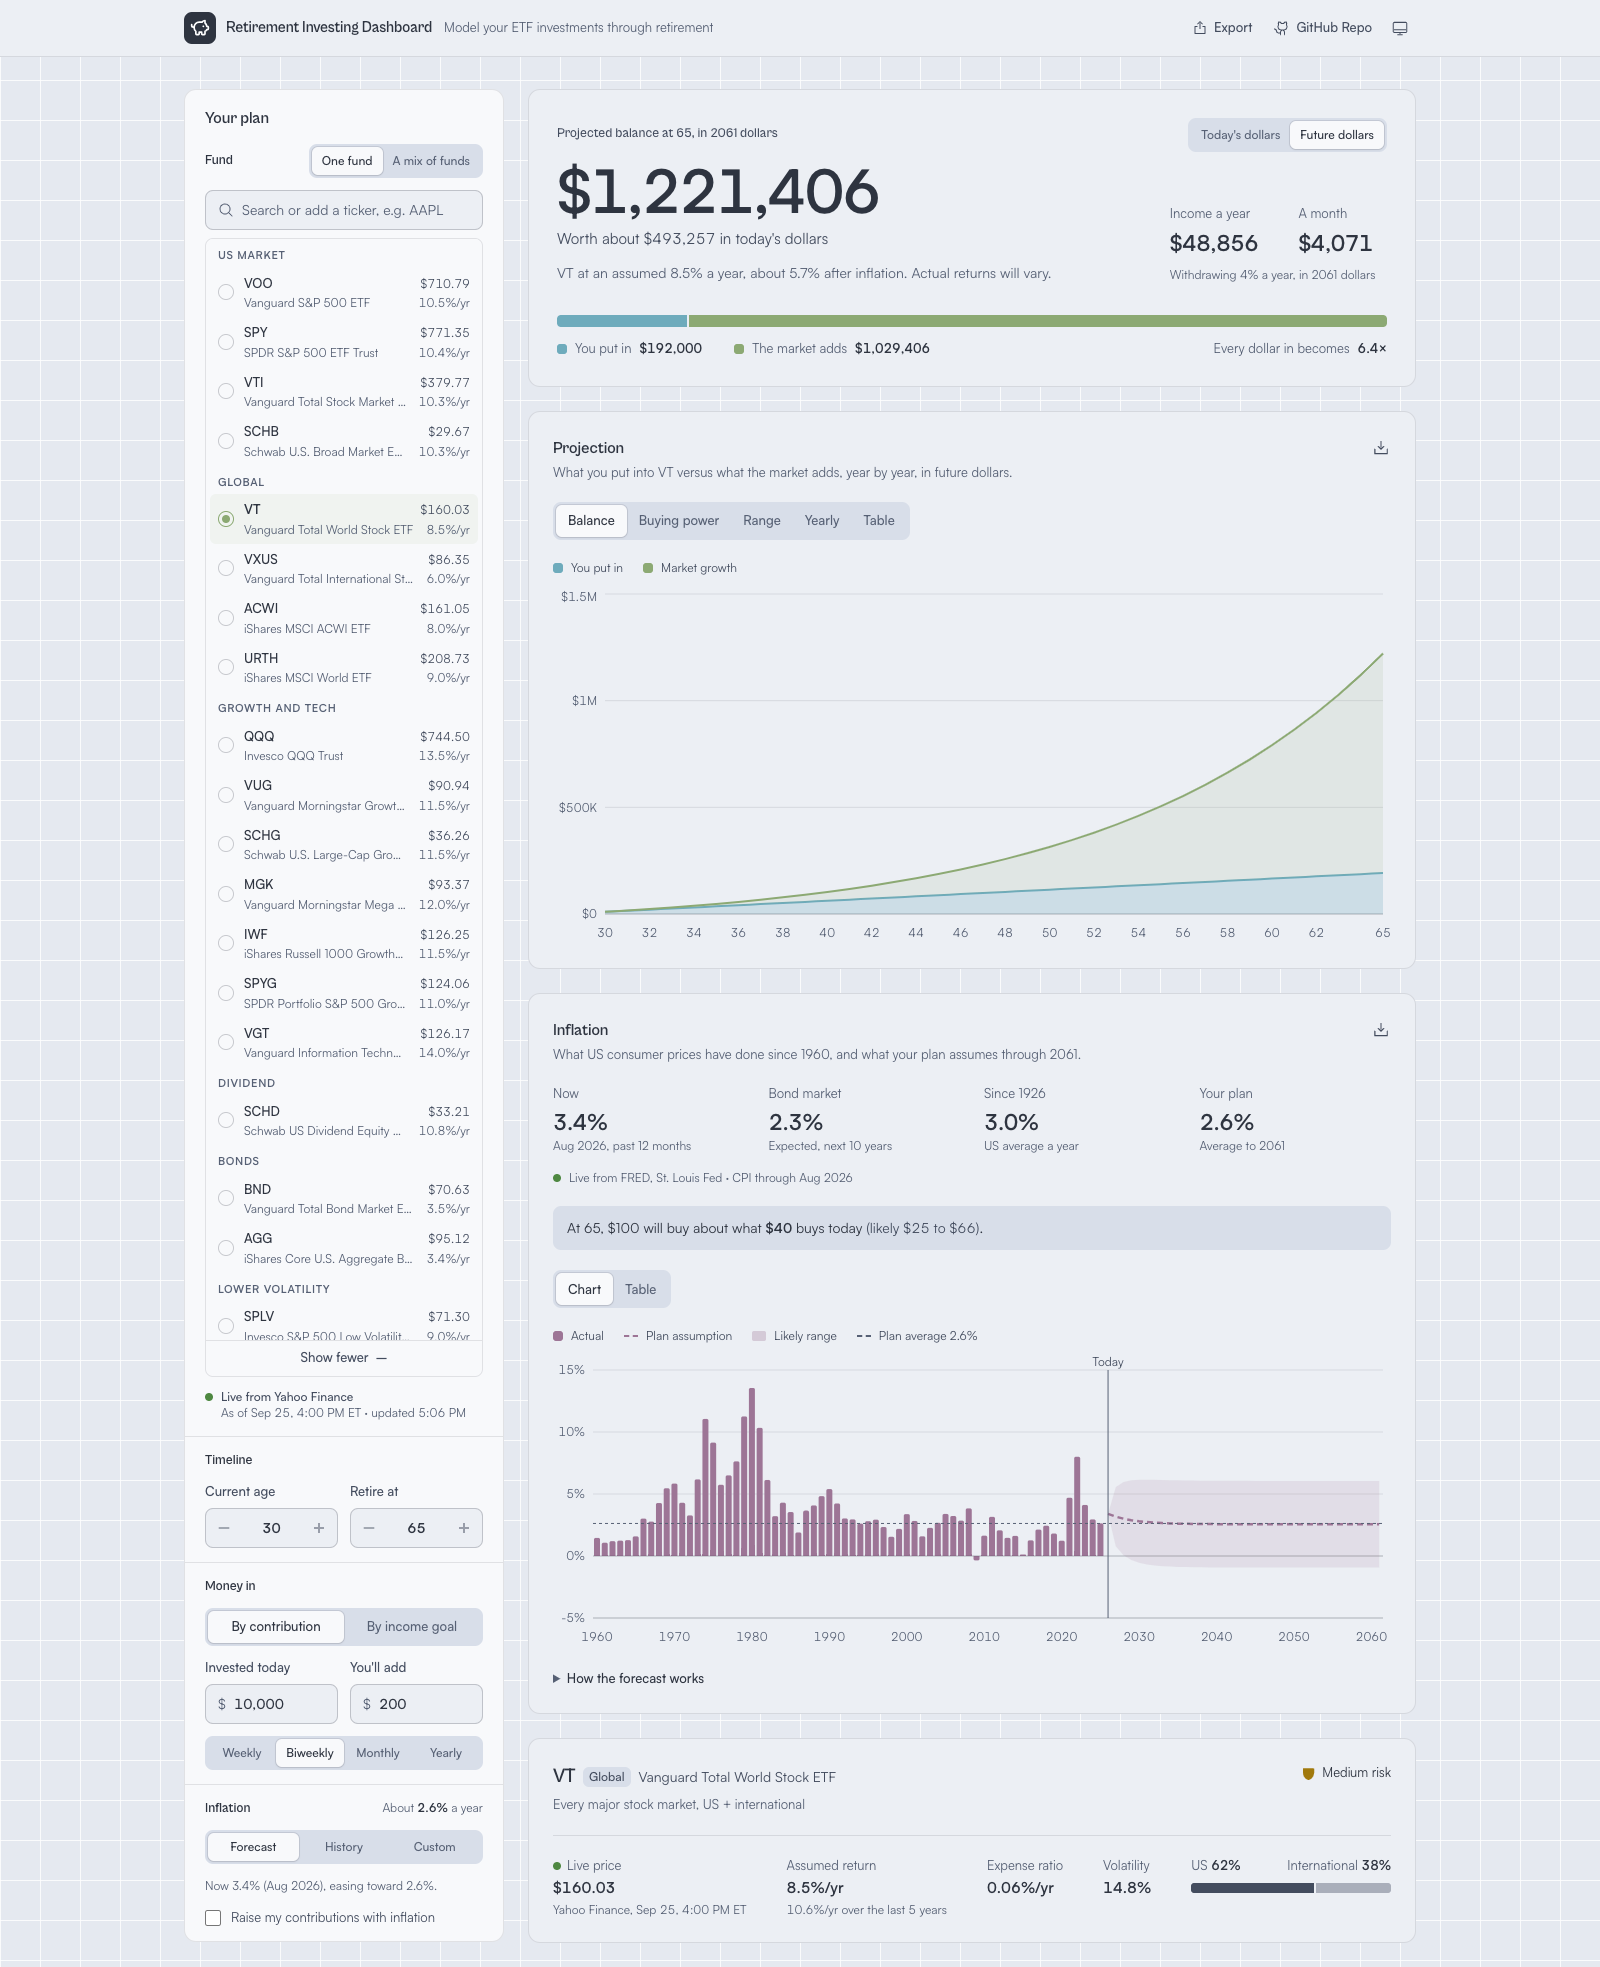
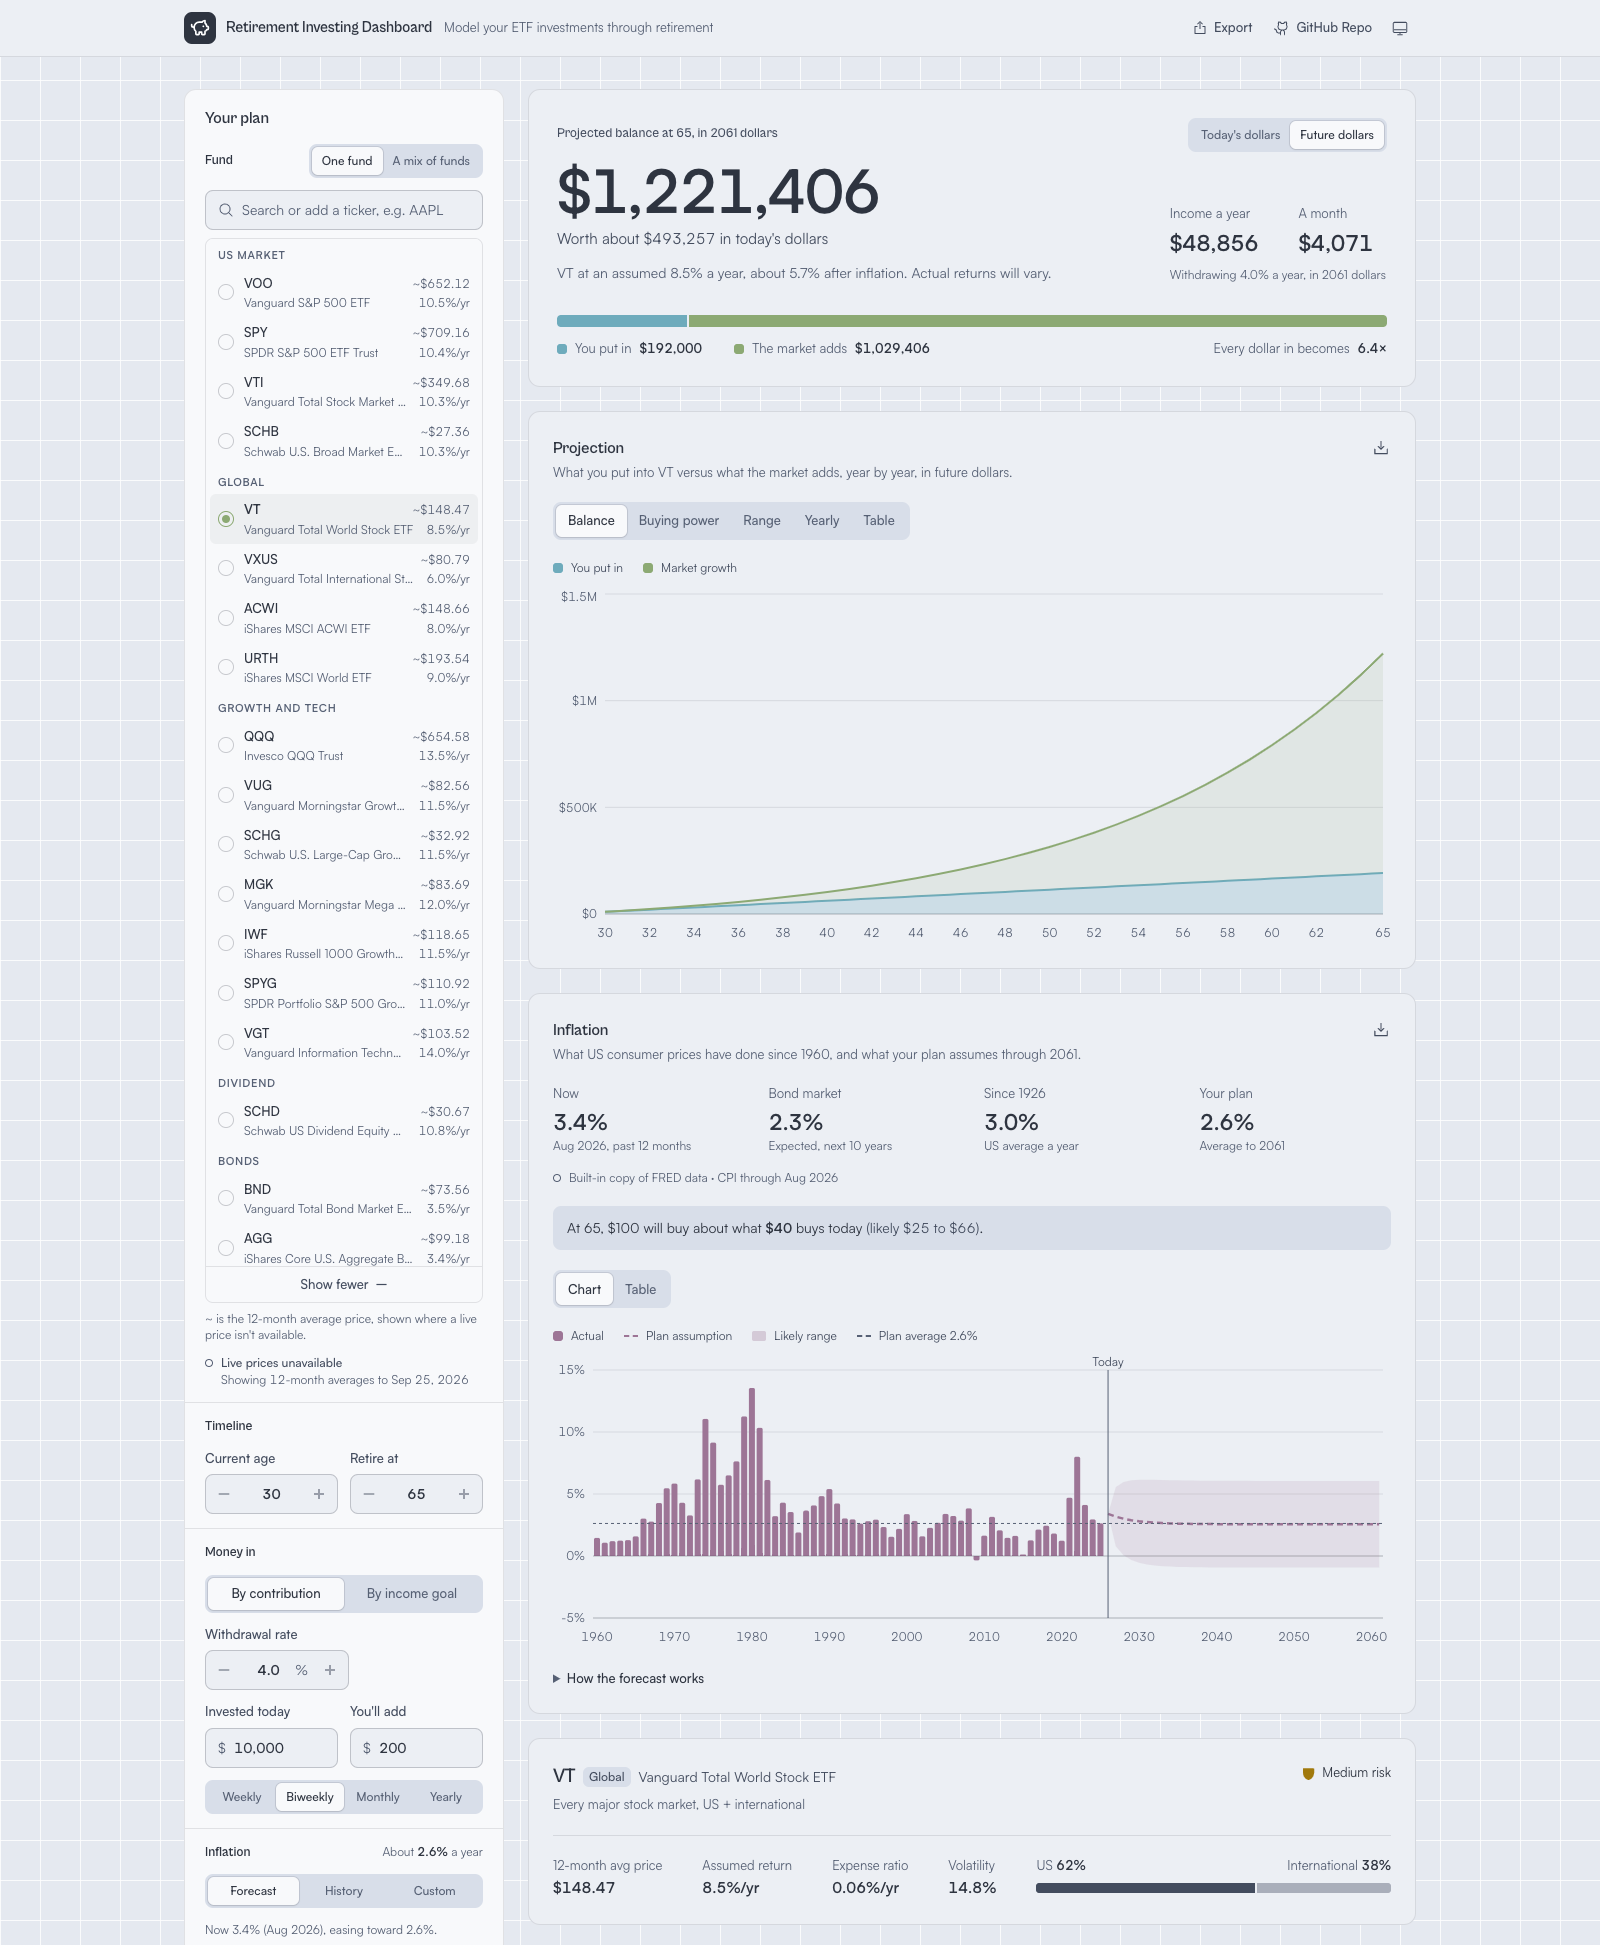
Turn the withdrawal rate into a proper number field
Replaced the slider with the same plus and minus stepper the age fields
use, sized to fit its content instead of stretching across the panel.
It now accepts decimals like 4.5, moves by a whole point per click,
corrects itself right away if you type something below 1 or above 100,
and the range goes all the way to 100 percent. Refreshed the README
screenshots to match.

diff --git a/src/components/ControlsPanel.tsx b/src/components/ControlsPanel.tsx
@@ -186,11 +186,14 @@ function MoneyInput({
   );
 }
 
-function AgeStepper({
+function NumberStepper({
   label,
   value,
   min,
   max,
+  decimals = 0,
+  suffix,
+  className = "",
   onChange,
   onDecrement,
   onIncrement,
@@ -199,31 +202,54 @@ function AgeStepper({
   value: number;
   min: number;
   max: number;
+  /** Decimal places the field accepts and displays, e.g. 1 for "4.5". Whole numbers by default. */
+  decimals?: number;
+  /** A short unit shown after the number, e.g. "%". */
+  suffix?: string;
+  className?: string;
   onChange: (value: number) => void;
   onDecrement: () => void;
   onIncrement: () => void;
 }) {
   const id = useId();
-  const [text, setText] = useState(String(value));
+  const format = (n: number) => n.toFixed(decimals);
+  const [text, setText] = useState(format(value));
   const [prevValue, setPrevValue] = useState(value);
   if (value !== prevValue) {
     setPrevValue(value);
-    setText(String(value));
+    setText(format(value));
   }
+
+  const round = (num: number) => {
+    const factor = 10 ** decimals;
+    return Math.round(num * factor) / factor;
+  };
 
   const commitText = () => {
     const num = Number(text);
     if (text.trim() === "" || Number.isNaN(num)) {
-      setText(String(value));
+      setText(format(value));
       return;
     }
-    onChange(Math.max(min, Math.min(max, Math.round(num))));
+    onChange(round(Math.max(min, Math.min(max, num))));
+  };
+
+  // Typing a number outside the range corrects itself right away rather than waiting for blur,
+  // so the field never shows an invalid value for long. A number still inside range is left as
+  // typed, decimals and all, until commitText rounds it on blur.
+  const handleTextChange = (raw: string) => {
+    setText(raw);
+    const num = Number(raw);
+    if (raw.trim() === "" || Number.isNaN(num) || (num >= min && num <= max)) return;
+    const clamped = round(Math.max(min, Math.min(max, num)));
+    setText(format(clamped));
+    onChange(clamped);
   };
 
   const stepButton = "flex h-full w-9 shrink-0 items-center justify-center text-ink-2 hover:bg-ink/[0.05] hover:text-ink disabled:opacity-35";
 
   return (
-    <div className="flex flex-col gap-1.5">
+    <div className={`flex flex-col gap-1.5 ${className}`}>
       <label htmlFor={id} className={fieldLabel}>
         {label}
       </label>
@@ -240,9 +266,9 @@ function AgeStepper({
         <input
           id={id}
           type="number"
-          inputMode="numeric"
+          inputMode={decimals > 0 ? "decimal" : "numeric"}
           value={text}
-          onChange={(e) => setText(e.target.value)}
+          onChange={(e) => handleTextChange(e.target.value)}
           onBlur={commitText}
           onKeyDown={(e) => {
             if (e.key === "Enter") {
@@ -253,6 +279,11 @@ function AgeStepper({
           }}
           className="no-spinner w-full min-w-0 bg-transparent text-center text-sm font-semibold text-ink tabular-nums outline-none"
         />
+        {suffix && (
+          <span aria-hidden="true" className="flex items-center pr-1 text-sm text-ink-3">
+            {suffix}
+          </span>
+        )}
         <button
           type="button"
           onClick={onIncrement}
@@ -615,7 +646,6 @@ export function ControlsPanel({
     contribution: useId(),
     income: useId(),
     customReturn: useId(),
-    withdrawalRate: useId(),
     customInflation: useId(),
     raise: useId(),
   };
@@ -901,7 +931,7 @@ export function ControlsPanel({
 
         <Group title="Timeline">
           <div className="grid grid-cols-2 gap-3">
-            <AgeStepper
+            <NumberStepper
               label="Current age"
               value={controls.currentAge}
               min={1}
@@ -910,7 +940,7 @@ export function ControlsPanel({
               onDecrement={() => update("currentAge", Math.max(1, controls.currentAge - 1))}
               onIncrement={() => update("currentAge", Math.min(controls.targetAge - 1, controls.currentAge + 1))}
             />
-            <AgeStepper
+            <NumberStepper
               label="Retire at"
               value={controls.targetAge}
               min={2}
@@ -925,28 +955,18 @@ export function ControlsPanel({
         <Group title="Money in">
           <Segmented label="Plan by" options={PLANNING_MODES} value={controls.planningMode} onChange={setPlanningMode} />
 
-          <div className="flex flex-col gap-1.5">
-            <div className="flex items-baseline justify-between">
-              <label
-                htmlFor={ids.withdrawalRate}
-                className={fieldLabel}
-                title="How much of your balance you plan to withdraw each year in retirement"
-              >
-                Withdrawal rate
-              </label>
-              <span className="text-[13px] font-medium text-ink tabular-nums">{pct1(controls.withdrawalRate)}</span>
-            </div>
-            <input
-              id={ids.withdrawalRate}
-              type="range"
-              min={2}
-              max={8}
-              step={0.1}
-              value={controls.withdrawalRate * 100}
-              onChange={(e) => update("withdrawalRate", Number(e.target.value) / 100)}
-              className="w-full"
-            />
-          </div>
+          <NumberStepper
+            label="Withdrawal rate"
+            value={controls.withdrawalRate * 100}
+            min={1}
+            max={100}
+            decimals={1}
+            suffix="%"
+            className="w-36 self-start"
+            onChange={(pct) => update("withdrawalRate", pct / 100)}
+            onDecrement={() => update("withdrawalRate", Math.max(1, Math.round((controls.withdrawalRate * 100 - 1) * 10) / 10) / 100)}
+            onIncrement={() => update("withdrawalRate", Math.min(100, Math.round((controls.withdrawalRate * 100 + 1) * 10) / 10) / 100)}
+          />
 
           {/* Side by side, so the panel fits a desktop window without scrolling. */}
           <div className="grid grid-cols-2 gap-3">
